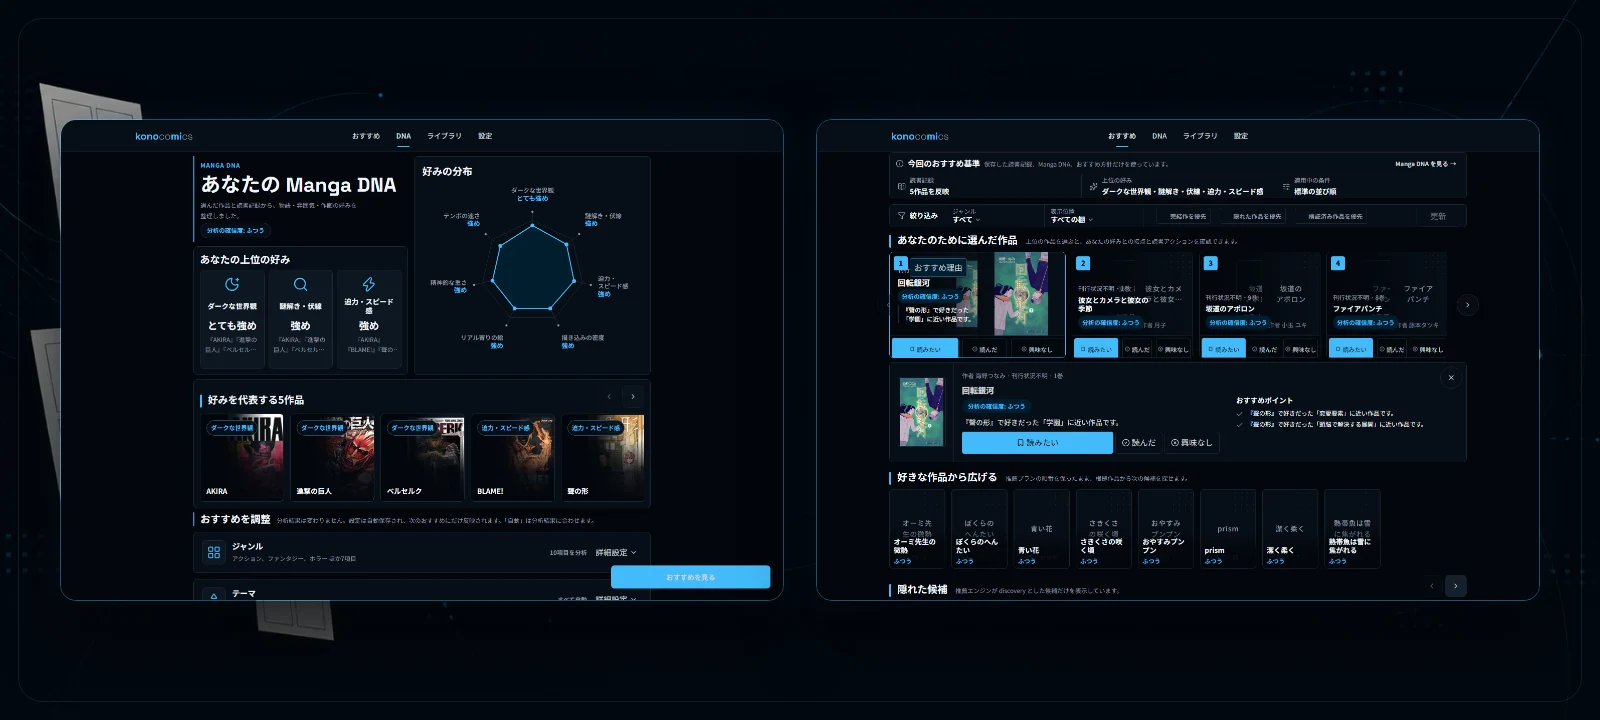
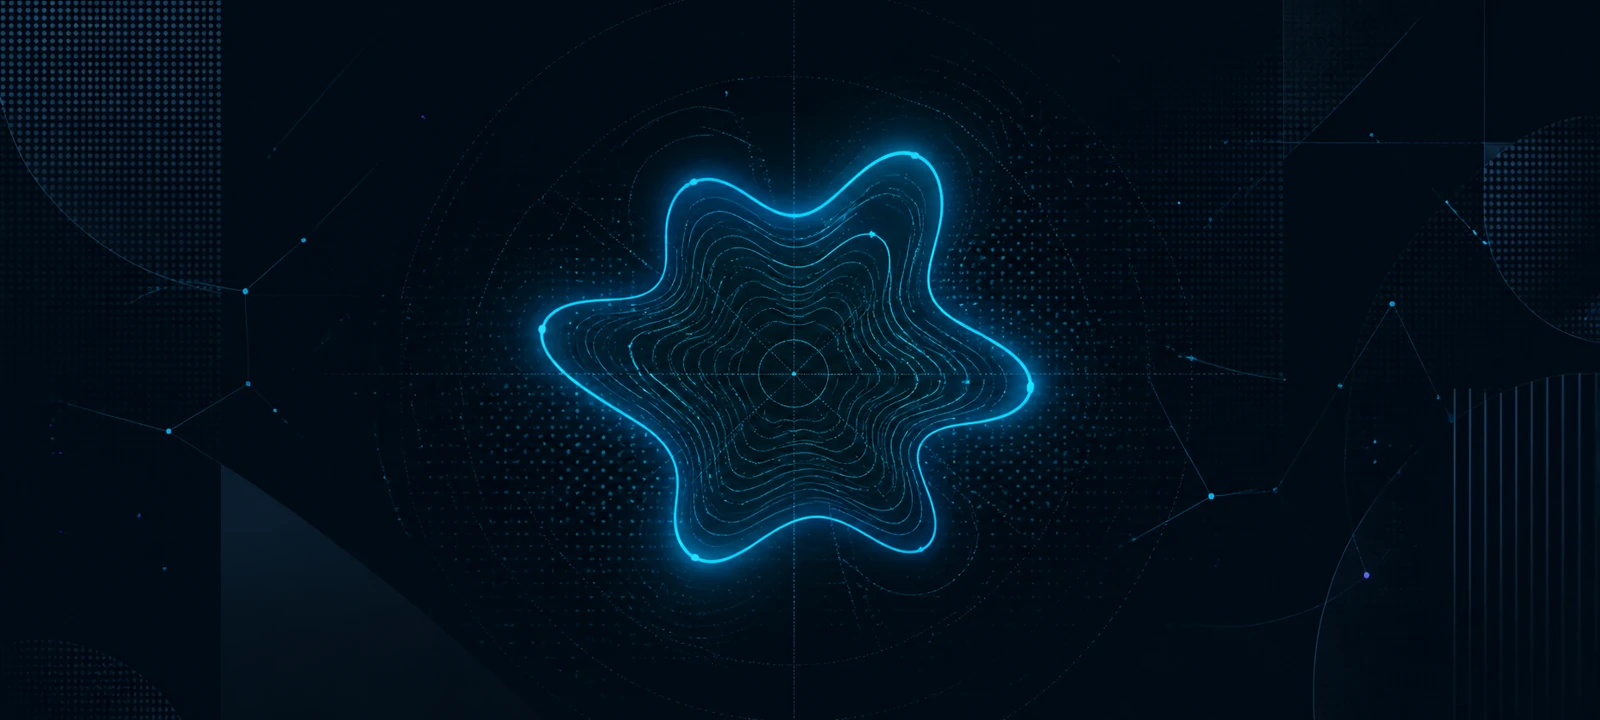
docs: replace README hero with abstract artwork

diff --git a/README.ja.md b/README.ja.md
@@ -1,6 +1,6 @@
 <p align="center">
   <a href="https://konocomics.vercel.app">
-    <img src="./docs/assets/readme/konocomics-hero.webp" alt="konocomics を開く — Manga DNA とおすすめ理由の画面" width="1600" />
+    <img src="./docs/assets/readme/konocomics-hero.webp" alt="konocomics を開く" width="1600" />
   </a>
 </p>
 

diff --git a/README.ko.md b/README.ko.md
@@ -1,6 +1,6 @@
 <p align="center">
   <a href="https://konocomics.vercel.app">
-    <img src="./docs/assets/readme/konocomics-hero.webp" alt="konocomics 열기 — Manga DNA와 추천 근거 화면" width="1600" />
+    <img src="./docs/assets/readme/konocomics-hero.webp" alt="konocomics 열기" width="1600" />
   </a>
 </p>
 

diff --git a/README.md b/README.md
@@ -1,6 +1,6 @@
 <p align="center">
   <a href="https://konocomics.vercel.app">
-    <img src="./docs/assets/readme/konocomics-hero.webp" alt="Open konocomics — Manga DNA and recommendation reasons" width="1600" />
+    <img src="./docs/assets/readme/konocomics-hero.webp" alt="Open konocomics" width="1600" />
   </a>
 </p>
 
